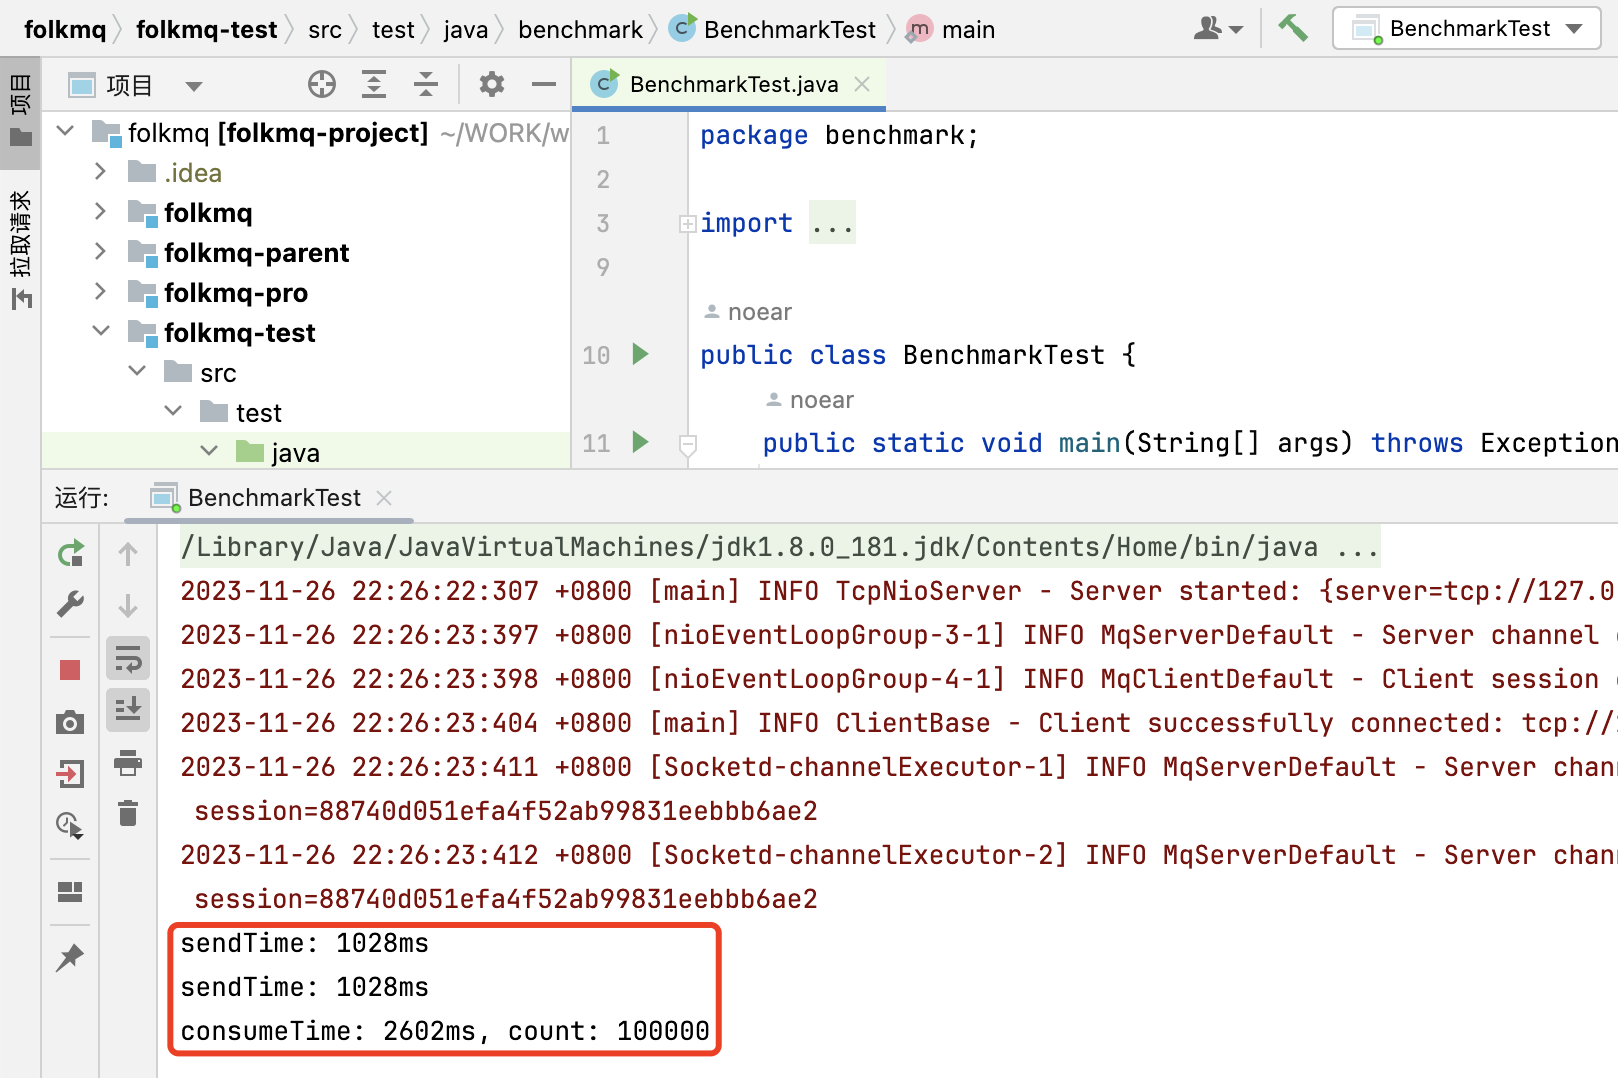
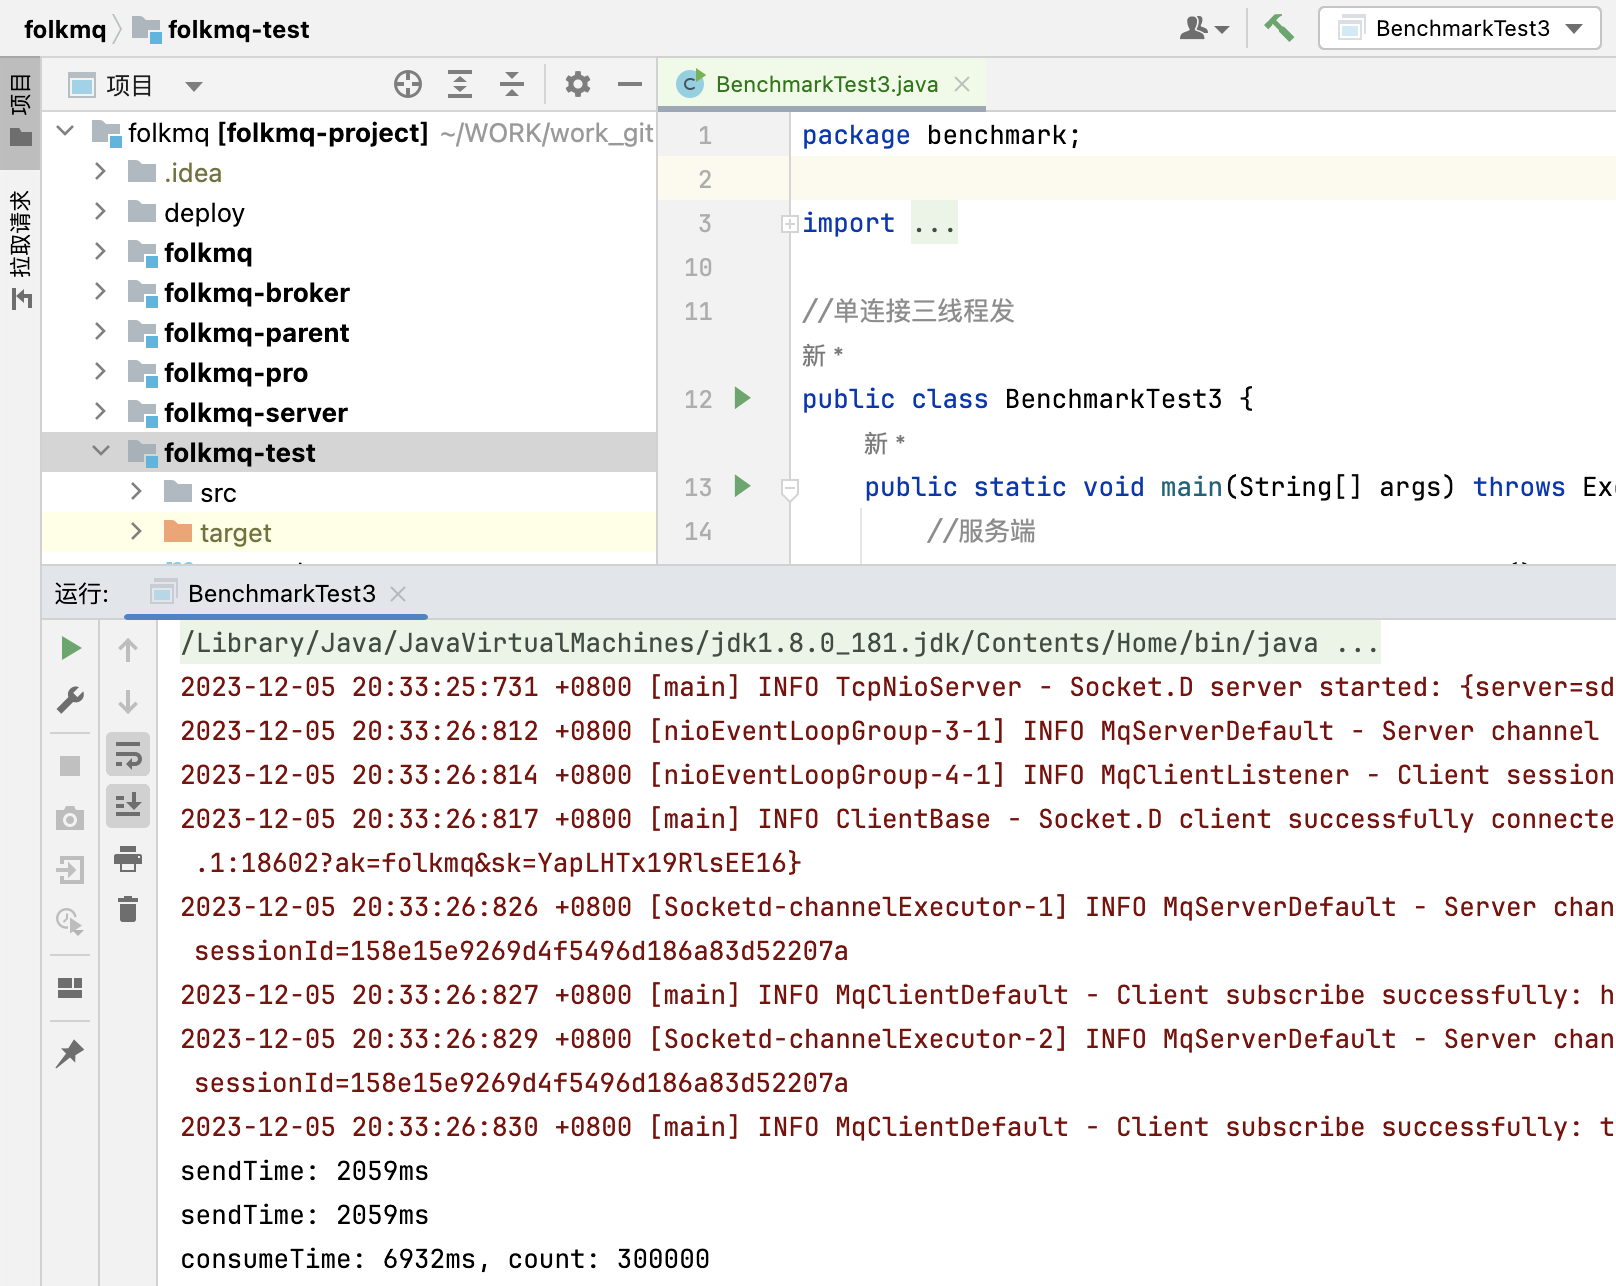
del

diff --git a/folkmq-test/src/test/java/benchmark/BenchmarkTest3.java b/folkmq-test/src/test/java/benchmark/BenchmarkTest3.java
@@ -1,0 +1,99 @@
+package benchmark;
+
+import org.noear.folkmq.FolkMQ;
+import org.noear.folkmq.client.MqClient;
+import org.noear.folkmq.client.MqMessage;
+import org.noear.folkmq.server.MqServer;
+import org.noear.folkmq.server.MqServerDefault;
+
+import java.util.concurrent.CountDownLatch;
+
+//单连接三线程发
+public class BenchmarkTest3 {
+    public static void main(String[] args) throws Exception {
+        //服务端
+        MqServer server = new MqServerDefault()
+                .addAccess("folkmq", "YapLHTx19RlsEE16")
+                .start(18602);
+
+        Thread.sleep(1000);
+        int count = 100_000;
+        CountDownLatch consumeDownLatch = new CountDownLatch(count * 3);
+        CountDownLatch sendDownLatch = new CountDownLatch(3);
+
+        //客户端
+        MqClient client = FolkMQ.createClient("folkmq://127.0.0.1:18602?ak=folkmq&sk=YapLHTx19RlsEE16")
+                .connect();
+
+        //订阅
+        client.subscribe("hot", "a", message -> {
+            //System.out.println("::" + topic + " - " + message);
+        });
+
+        client.subscribe("test", "a", message -> {
+            //System.out.println("::" + topic + " - " + message);
+            consumeDownLatch.countDown();
+        });
+
+        //发布预热
+        for (int i = 0; i < 100; i++) {
+            client.publish("hot", new MqMessage("hot-" + i));
+        }
+
+        //发布测试
+        long start_time = System.currentTimeMillis();
+        Thread thread1 = new Thread(()->{
+            try {
+                for (int i = 0; i < count; i++) {
+                    client.publishAsync("test", new MqMessage("test-" + i));
+                }
+
+                sendDownLatch.countDown();
+            }catch (Exception e){
+                e.printStackTrace();
+            }
+        });
+
+        Thread thread2 = new Thread(()->{
+            try {
+                for (int i = 0; i < count; i++) {
+                    client.publishAsync("test", new MqMessage("test-" + i));
+                }
+
+                sendDownLatch.countDown();
+            }catch (Exception e){
+                e.printStackTrace();
+            }
+        });
+
+        Thread thread3 = new Thread(()->{
+            try {
+                for (int i = 0; i < count; i++) {
+                    client.publishAsync("test", new MqMessage("test-" + i));
+                }
+
+                sendDownLatch.countDown();
+            }catch (Exception e){
+                e.printStackTrace();
+            }
+        });
+
+        thread1.start();
+        thread2.start();
+        thread3.start();
+
+
+        sendDownLatch.await();
+
+        long sendTime = System.currentTimeMillis() - start_time;
+
+        System.out.println("sendTime: " + sendTime + "ms");
+
+        consumeDownLatch.await();
+
+        long consumeTime = System.currentTimeMillis() - start_time;
+
+        System.out.println("sendTime: " + sendTime + "ms");
+        System.out.println("consumeTime: " + consumeTime + "ms, count: " + (count*3 - consumeDownLatch.getCount()));
+    }
+}

diff --git a/folkmq-test/src/test/java/benchmark/BenchmarkTest.java b/folkmq-test/src/test/java/benchmark/BenchmarkTest.java
@@ -8,6 +8,7 @@ import org.noear.folkmq.server.MqServerDefault;
 
 import java.util.concurrent.CountDownLatch;
 
+//单连接单线程发
 public class BenchmarkTest {
     public static void main(String[] args) throws Exception {
         //服务端
@@ -16,7 +17,7 @@ public class BenchmarkTest {
                 .start(18602);
 
         Thread.sleep(1000);
-        int count = 1000_000;
+        int count = 100_000;
         CountDownLatch countDownLatch = new CountDownLatch(count);
 
         //客户端
